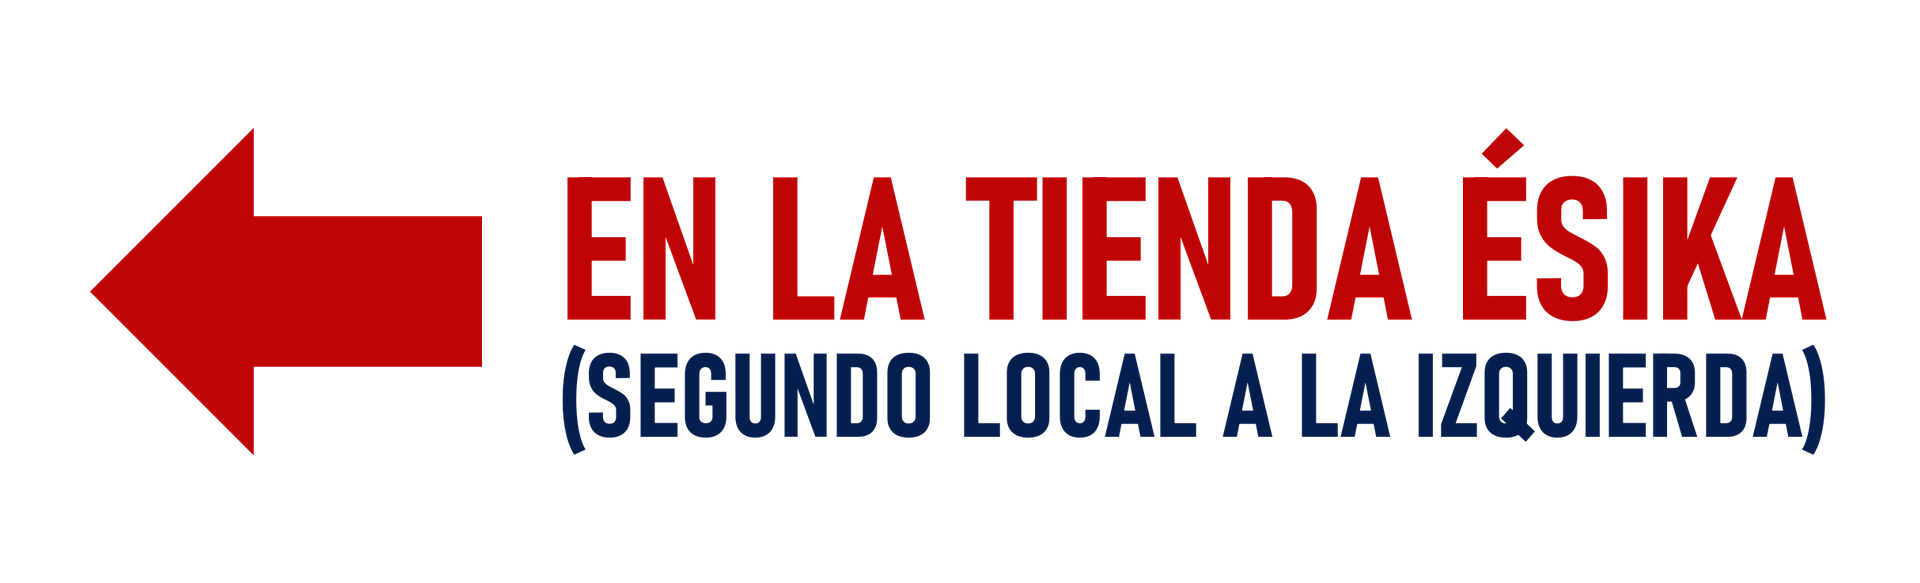
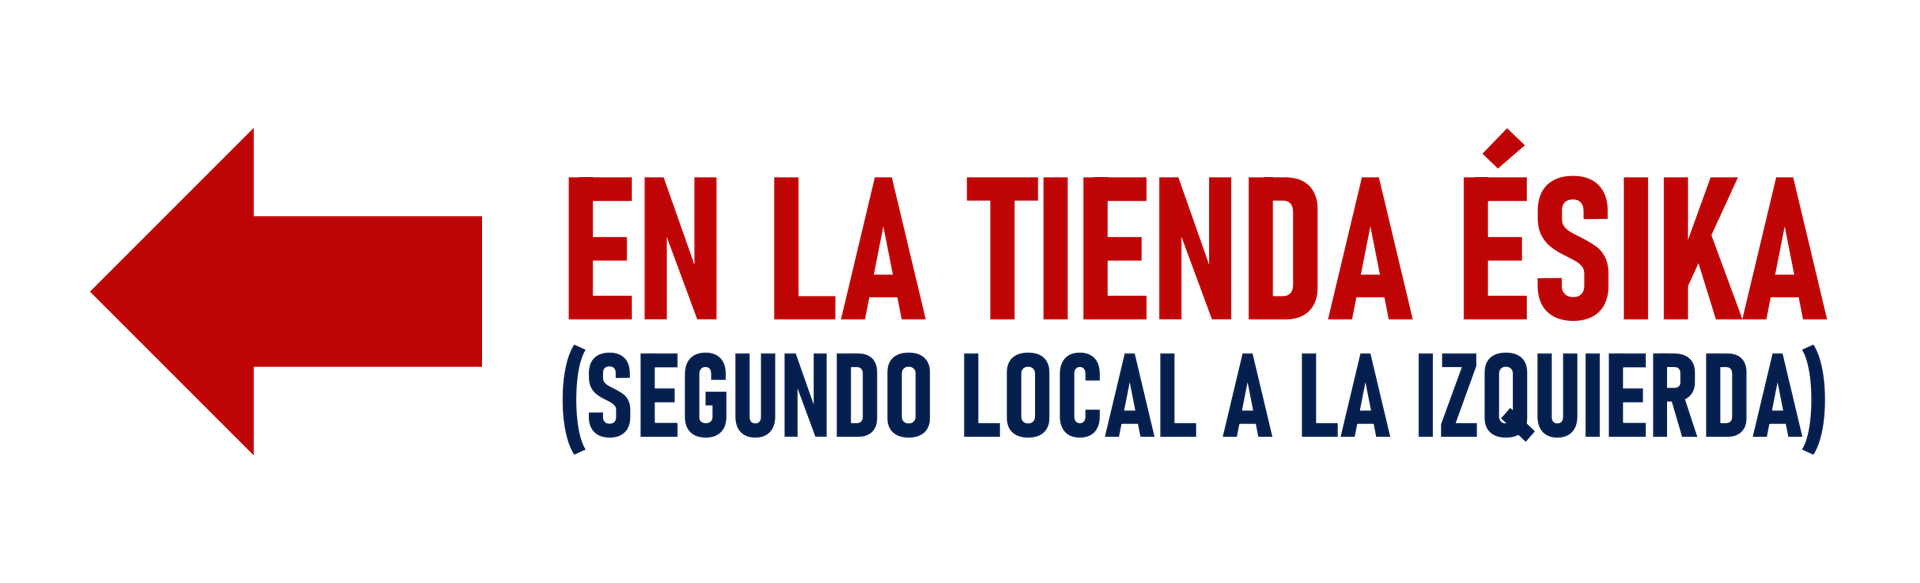
Split the header's red and blue texts into their own pieces and let the editor widen any piece

diff --git a/tools/layout_editor/layout_editor.js b/tools/layout_editor/layout_editor.js
@@ -27,6 +27,7 @@ const template = /* html */ `
         <label>x<input class="field_x" type="number"></label>
         <label>y<input class="field_y" type="number"></label>
         <label>escala<input class="field_scale" type="number" step="0.05" min="0.1"></label>
+        <label title="Estira la imagen a lo ancho: 1 es su ancho normal, 1.2 un 20 % más ancha">ancho<input class="field_widen" type="number" step="0.05" min="0.1"></label>
       </div>
       <div class="row"><button class="to_front">Al frente</button><button class="to_back">Al fondo</button><button class="delete_piece">Eliminar imagen</button></div>
       <textarea class="note" placeholder="Instrucción para esta pieza (ej. más grande, tapar la parte baja…)"></textarea>
@@ -123,7 +124,7 @@ export class LayoutEditor extends HTMLElement {
     this.#element('.zoom').addEventListener('input', (event) => { this.#zoom = Number(event.target.value); this.#refresh(); });
     this.#element('.show_reference').addEventListener('change', () => this.#refresh());
     this.#element('.move_backgrounds').addEventListener('change', () => this.#refresh());
-    for (const field of ['x', 'y', 'scale']) {
+    for (const field of ['x', 'y', 'scale', 'widen']) {
       this.#element(`.field_${field}`).addEventListener('input', (event) => this.#edit_selected({ [field]: Number(event.target.value) }));
     }
     this.#element('.note').addEventListener('input', (event) => this.#edit_selected({ note: event.target.value }));
@@ -188,7 +189,7 @@ export class LayoutEditor extends HTMLElement {
     const stage = this.#element('.stage');
     const move = (moved) => {
       const pointer_x = (moved.clientX - stage.getBoundingClientRect().left) / this.#zoom;
-      placement.scale = Math.max(0.05, Math.round(((pointer_x - placement.x) / natural_width) * 100) / 100);
+      placement.scale = Math.max(0.05, Math.round(((pointer_x - placement.x) / (natural_width * placement.widen)) * 100) / 100);
       this.#refresh_stage();
       this.#fill_fields();
     };
@@ -301,7 +302,7 @@ export class LayoutEditor extends HTMLElement {
     const image = this.#images.get(part.name);
     const size = 28 / this.#zoom;
     this.#handle.style.width = this.#handle.style.height = `${size}px`;
-    this.#handle.style.left = `${placement.x + image.naturalWidth * placement.scale - size / 2}px`;
+    this.#handle.style.left = `${placement.x + image.naturalWidth * placement.scale * placement.widen - size / 2}px`;
     this.#handle.style.top = `${placement.y + image.naturalHeight * placement.scale - size / 2}px`;
   }
 
@@ -311,7 +312,7 @@ export class LayoutEditor extends HTMLElement {
     image.style.left = `${placement.x}px`;
     image.style.top = `${placement.y}px`;
     image.style.zIndex = placement.order;
-    image.style.transform = `scale(${placement.scale}, ${placement.scale * placement.stretch})`;
+    image.style.transform = `scale(${placement.scale * placement.widen}, ${placement.scale * placement.stretch})`;
     image.style.display = placement.visible && !placement.deleted ? 'block' : 'none';
     image.classList.toggle('selected', part.name === this.#selected_name);
     image.classList.toggle('in_section', part.section === this.#selected_section);
@@ -393,6 +394,7 @@ export class LayoutEditor extends HTMLElement {
     this.#element('.field_x').value = placement.x;
     this.#element('.field_y').value = placement.y;
     this.#element('.field_scale').value = placement.scale;
+    this.#element('.field_widen').value = placement.widen;
     if (this.shadowRoot.activeElement !== this.#element('.note')) this.#element('.note').value = placement.note;
   }
 

diff --git a/tools/layout_editor/layout_store.js b/tools/layout_editor/layout_store.js
@@ -5,7 +5,7 @@ const heights_key = `${storage_key}:section_heights`;
 
 export function original_layout() {
   return Object.fromEntries(parts_catalog.map((part, index) => [
-    part.name, { x: part.x, y: part.y, scale: 1, stretch: 1, visible: true, deleted: false, order: index, note: '', ...default_adjustments[part.name] },
+    part.name, { x: part.x, y: part.y, scale: 1, stretch: 1, widen: 1, visible: true, deleted: false, order: index, note: '', ...default_adjustments[part.name] },
   ]));
 }
 
@@ -59,8 +59,9 @@ export function ordered_names(layout) {
 function describe_piece(name, placement) {
   const state = placement.deleted ? ' [deleted]' : placement.visible ? '' : ' [hidden]';
   const stretch = placement.stretch === 1 ? '' : ` stretch=${placement.stretch.toFixed(2)}`;
+  const widen = placement.widen === 1 ? '' : ` widen=${placement.widen.toFixed(2)}`;
   const note = placement.note ? ` -> ${placement.note}` : '';
-  return `- ${name}: x=${Math.round(placement.x)} y=${Math.round(placement.y)} scale=${placement.scale.toFixed(2)}${stretch}${state}${note}`;
+  return `- ${name}: x=${Math.round(placement.x)} y=${Math.round(placement.y)} scale=${placement.scale.toFixed(2)}${stretch}${widen}${state}${note}`;
 }
 
 function merge_with_original(saved) {

diff --git a/tools/layout_editor/parts_catalog.js b/tools/layout_editor/parts_catalog.js
@@ -41,12 +41,14 @@ const davivienda_pieces = [
 // The "a la vuelta, en la tienda ÉSIKA, segundo local a la izquierda" header, drawn by tools/make_store_header_parts.py.
 // The same pieces appear in the top and the bottom arrow, each at its own place in its section.
 const top_arrow_pieces = [
-  ['flecha_columna', 69, 60],
-  ['texto_tienda_columna', 441, 36],
+  ['flecha_columna', 76, 60],
+  ['texto_tienda_columna', 456, 36],
+  ['texto_segundo_local_columna', 446, 203],
 ];
 const bottom_arrow_pieces = [
   ['flecha_columna', 90, 45],
-  ['texto_tienda_columna', 482, 15],
+  ['texto_tienda_columna', 502, 15],
+  ['texto_segundo_local_columna', 493, 165],
 ];
 const top_arrow_names = top_arrow_pieces.map(([file]) => `sup_${file}`);
 const bottom_arrow_names = bottom_arrow_pieces.map(([file]) => `inf_${file}`);
@@ -79,6 +81,7 @@ export const default_adjustments = {
   // The bottom slot is shorter than the top one, so its header is a little smaller.
   inf_flecha_columna: { scale: 0.9 },
   inf_texto_tienda_columna: { scale: 0.9 },
+  inf_texto_segundo_local_columna: { scale: 0.9 },
 };
 
 const section_of = Object.fromEntries(sections.flatMap((section) => section.pieces.map((name) => [name, section.title])));

diff --git a/tools/layout_editor/layout_editor.css.js b/tools/layout_editor/layout_editor.css.js
@@ -32,7 +32,7 @@ layout_editor_styles.replaceSync(/* css */ `
   :host(.clean) .stage img { outline: none !important; cursor: default; }
   li.selected { background: #dff0ff; }
   li span { flex: 1; overflow: hidden; text-overflow: ellipsis; white-space: nowrap; }
-  .fields { display: grid; grid-template-columns: repeat(3, 1fr); gap: 6px; }
+  .fields { display: grid; grid-template-columns: repeat(4, 1fr); gap: 6px; }
   .fields label { display: flex; flex-direction: column; font-size: 12px; gap: 2px; }
   input[type=number] { width: 100%; box-sizing: border-box; }
   textarea { width: 100%; box-sizing: border-box; min-height: 60px; }

diff --git a/tools/layout_editor/corner_sign.js b/tools/layout_editor/corner_sign.js
@@ -18,7 +18,8 @@ const band_titles = ['1. cabecera', '2. nequi', '3. bancolombia', '4. fotocopias
 // Pieces as [section index, folder, name, x, y], in pixels of the sign, back to front.
 const pieces = [
   [0, 'header', 'flecha_ancho', 90, 128],
-  [0, 'header', 'texto_tienda_ancho', 558, 128],
+  [0, 'header', 'texto_tienda_ancho', 560, 128],
+  [0, 'header', 'texto_segundo_local_ancho', 558, 344],
   [1, 'textos', 'texto_recarga', 228, 715],
   [1, 'logos', 'logo_nequi', 121, 1029],
   [1, 'textos', 'texto_hazlo_facil', 231, 1547],

diff --git a/tools/layout_editor/section_image.js b/tools/layout_editor/section_image.js
@@ -18,7 +18,7 @@ export function render_section_blob(parts, layout, images, fixed_bounds = null) 
 }
 
 function rectangle_of(placement, image) {
-  const width = image.naturalWidth * placement.scale;
+  const width = image.naturalWidth * placement.scale * placement.widen;
   const height = image.naturalHeight * placement.scale * placement.stretch;
   return { left: placement.x, top: placement.y, width, height, right: placement.x + width, bottom: placement.y + height };
 }

diff --git a/tools/make_store_header_parts.py b/tools/make_store_header_parts.py
@@ -40,36 +40,53 @@ class StoreHeaderMaker:
     # Both lines span the same width, as in the reference image.
     def _wide_text(self):
         width = 1600
-        return self._stack([
-            self._fitted_line("EN LA TIENDA ÉSIKA", width, STORE_RED),
-            self._fitted_line("(SEGUNDO LOCAL A LA IZQUIERDA)", width, DIRECTION_BLUE),
-        ])
+        return {
+            "texto_tienda_ancho": self._fitted_line("EN LA TIENDA ÉSIKA", width, STORE_RED),
+            "texto_segundo_local_ancho": self._fitted_line("(SEGUNDO LOCAL A LA IZQUIERDA)", width, DIRECTION_BLUE),
+        }
 
-    # The column is narrow, so the direction takes two lines.
+    # The column is narrow, so each sentence takes two lines.
     def _column_text(self):
         width = 600
         blue_size = self._size_for_width("A LA IZQUIERDA)", width)
-        return self._stack([
-            self._fitted_line("A LA VUELTA", width, STORE_RED),
-            self._fitted_line("EN LA TIENDA ÉSIKA", width, STORE_RED),
-            self._line("(SEGUNDO LOCAL", blue_size, DIRECTION_BLUE),
-            self._line("A LA IZQUIERDA)", blue_size, DIRECTION_BLUE),
-        ])
+        return {
+            "texto_tienda_columna": self._stack([
+                self._fitted_line("A LA VUELTA", width, STORE_RED),
+                self._fitted_line("EN LA TIENDA ÉSIKA", width, STORE_RED),
+            ]),
+            "texto_segundo_local_columna": self._stack([
+                self._line("(SEGUNDO LOCAL", blue_size, DIRECTION_BLUE),
+                self._line("A LA IZQUIERDA)", blue_size, DIRECTION_BLUE),
+            ]),
+        }
 
-    # Arrow and text side by side, the arrow as tall as its share of the text, both centered in the header.
-    # The pieces are saved at their final size, so the layout editor shows them at scale 1.
-    def _make_header(self, suffix, size, text, arrow_style):
+    # The arrow beside the stacked texts, as tall as its share of them, all centered in the header.
+    # Each text is its own piece, saved at its final size so the layout editor shows it at scale 1.
+    def _make_header(self, suffix, size, texts, arrow_style):
         width, height, margin = size
         make_arrow, arrow_share = arrow_style
+        text = self._stack(list(texts.values()))
         natural_width = make_arrow(round(text.height * arrow_share)).width + width * ARROW_GAP + text.width
         scale = min((width - 2 * margin) / natural_width, (height - 2 * margin) / text.height)
-        text = text.resize((round(text.width * scale), round(text.height * scale)), Image.LANCZOS)
-        arrow = make_arrow(round(text.height * arrow_share))
+        arrow = make_arrow(round(text.height * scale * arrow_share))
         left = round((width - natural_width * scale) / 2)
-        top = (height - text.height) // 2
-        places = {f"flecha_{suffix}": (arrow, left, top + (text.height - arrow.height) // 2),
-                  f"texto_tienda_{suffix}": (text, width - left - text.width, top)}
-        header = Image.new("RGBA", (width, height), WHITE)
+        text_right, top = width - left, round((height - text.height * scale) / 2)
+        places = {f"flecha_{suffix}": (arrow, left, top + (round(text.height * scale) - arrow.height) // 2)}
+        for name, (piece, piece_top) in self._scaled_lines(texts, scale).items():
+            places[name] = (piece, text_right - round((text.width * scale + piece.width) / 2), top + piece_top)
+        self._save_header(suffix, size, places)
+
+    # The texts shrunk by scale, with their tops as they stand in the stack.
+    def _scaled_lines(self, texts, scale):
+        scaled, top = {}, 0
+        gap = round(next(iter(texts.values())).height * LINE_GAP)
+        for name, piece in texts.items():
+            scaled[name] = (piece.resize((round(piece.width * scale), round(piece.height * scale)), Image.LANCZOS), round(top * scale))
+            top += piece.height + gap
+        return scaled
+
+    def _save_header(self, suffix, size, places):
+        header = Image.new("RGBA", size[:2], WHITE)
         for name, (piece, x, y) in places.items():
             header.alpha_composite(piece, (x, y))
             self._save(piece, name)

diff --git a/README.md b/README.md
@@ -42,7 +42,7 @@ The panel's "Probar diseños" section lets you pick a design for each board (bla
 
 ## Arranging the cut pieces
 
-With the dev server running, open http://localhost:8020/tools/layout_editor/ to drag the pieces of `signs/partes/bancolombia_nueva_1x4_6/` (arrow keys nudge 1 px, Shift 10 px), scale them, reorder them, write a note per piece, set how tall each section is (the number next to its name, or drag the pink line between two sections; the space moves from one section to its neighbour) and each section has "Copiar imagen" (copies it as a PNG), "Eliminar imagen" (or the Delete key) takes the chosen image out of the sign and of every copy until you restore it, "Copiar imagen completa" copies the whole sign, "Vista final" hides every control mark, and "Copiar instrucciones" pastes the layout into the chat.
+With the dev server running, open http://localhost:8020/tools/layout_editor/ to drag the pieces of `signs/partes/bancolombia_nueva_1x4_6/` (arrow keys nudge 1 px, Shift 10 px), scale them, make them wider or narrower ("ancho": 1 is the normal width), reorder them, write a note per piece, set how tall each section is (the number next to its name, or drag the pink line between two sections; the space moves from one section to its neighbour) and each section has "Copiar imagen" (copies it as a PNG), "Eliminar imagen" (or the Delete key) takes the chosen image out of the sign and of every copy until you restore it, "Copiar imagen completa" copies the whole sign, "Vista final" hides every control mark, and "Copiar instrucciones" pastes the layout into the chat.
 
 ### From the editor to the 3D page and the print PDF
 
